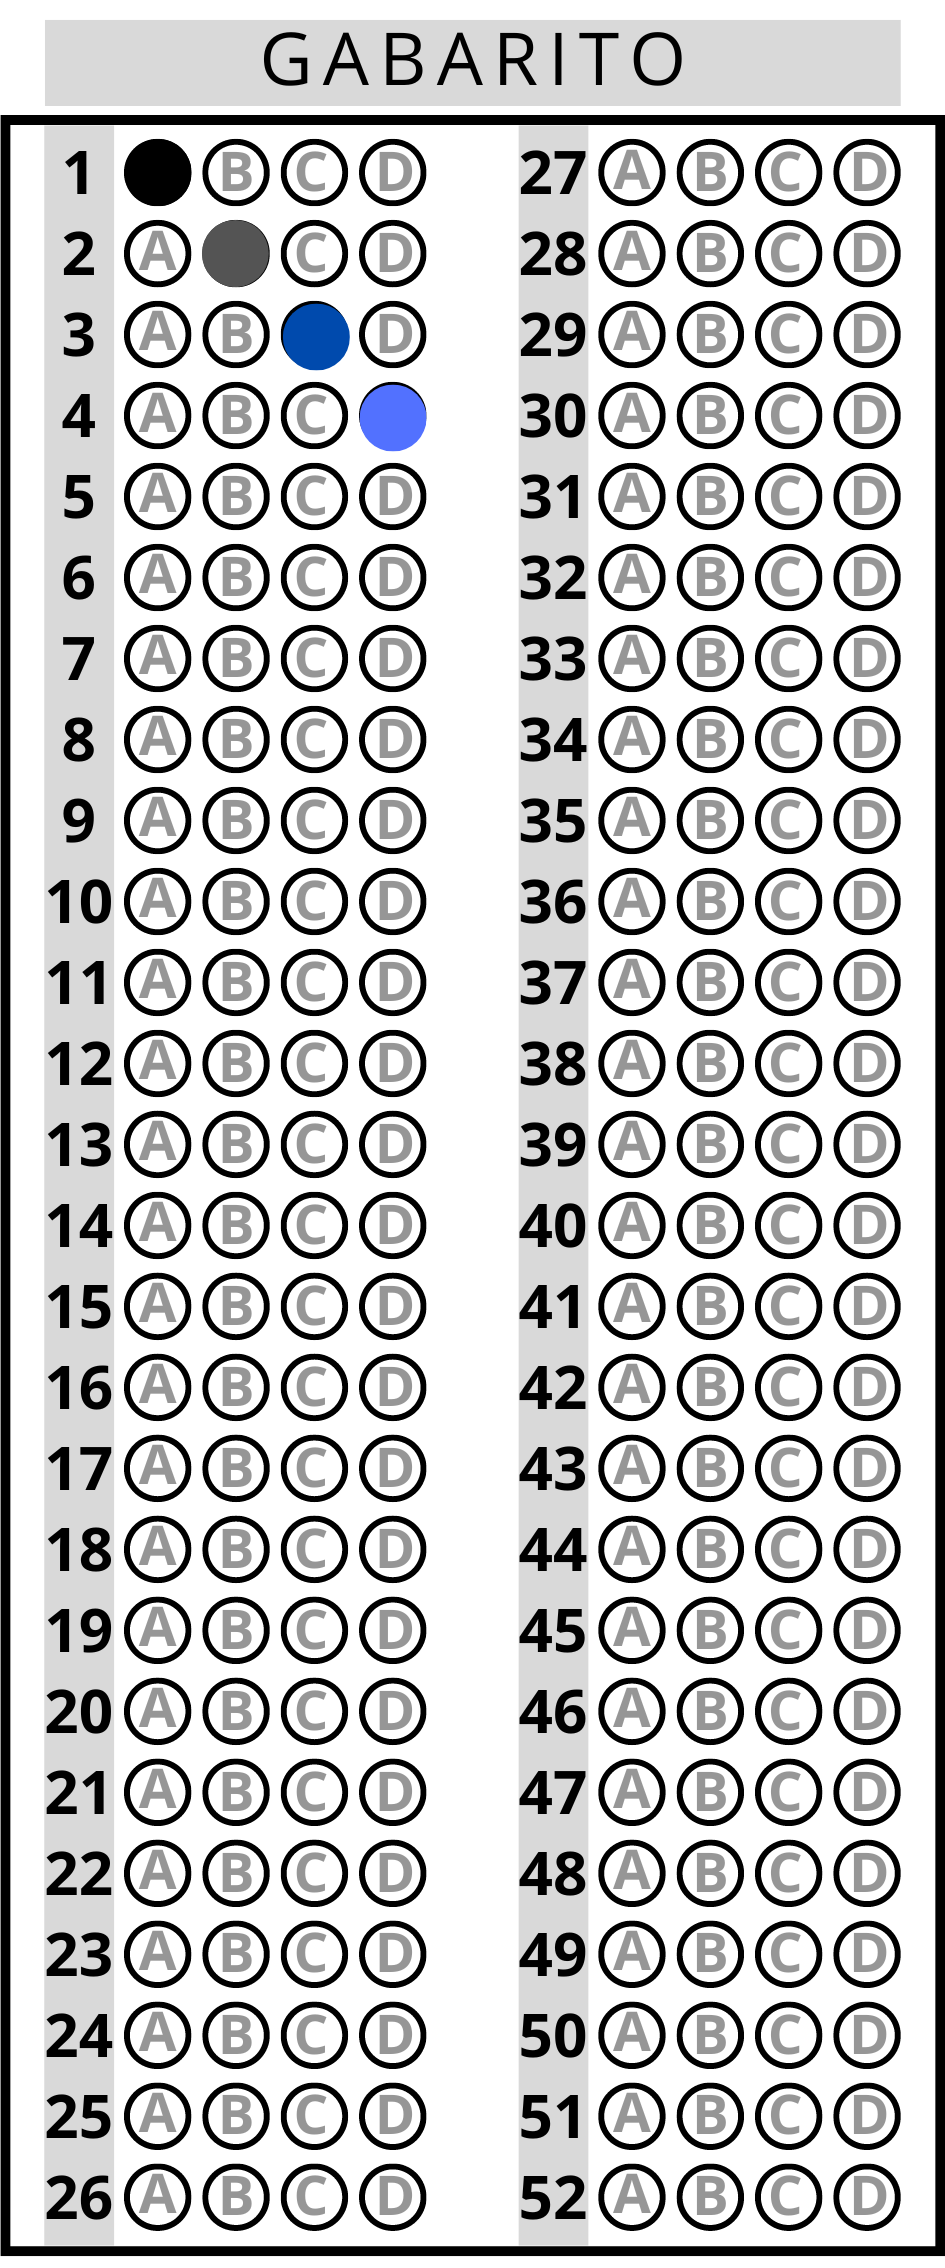
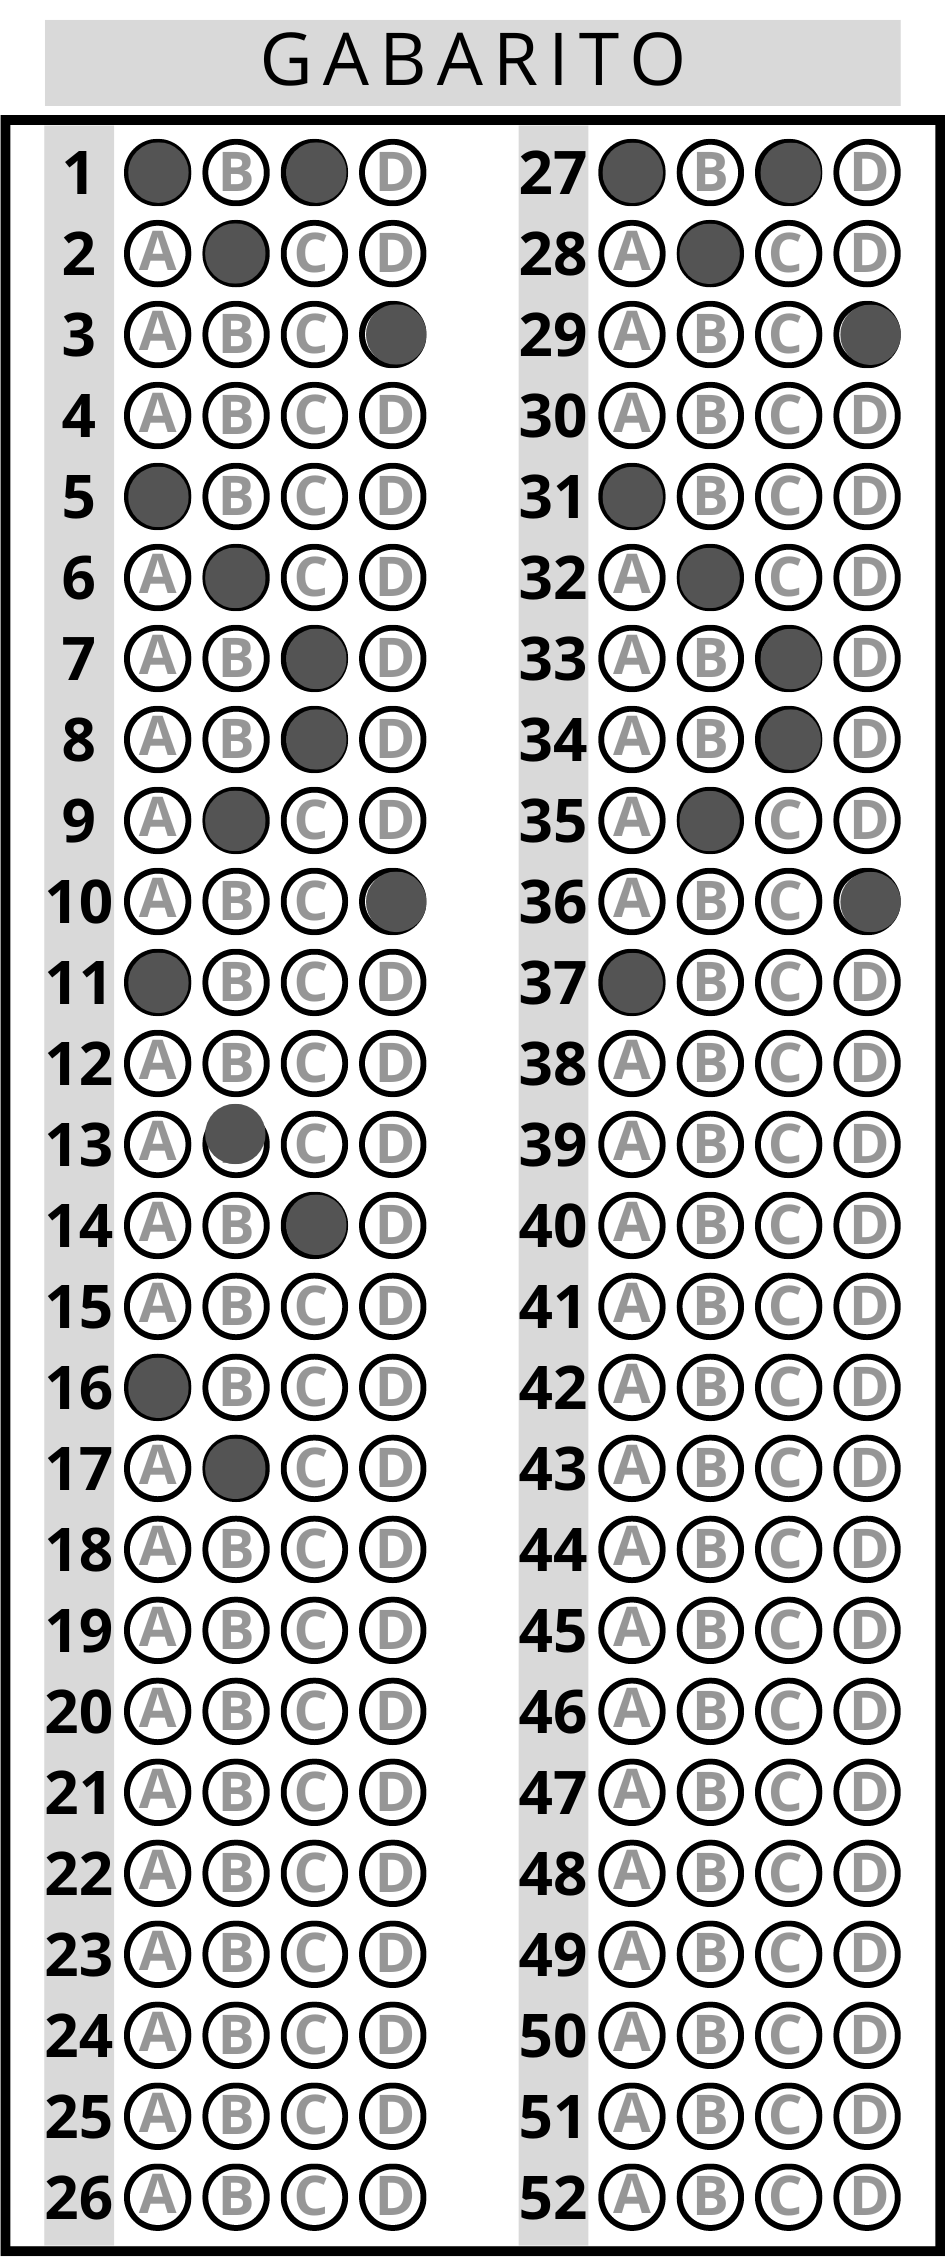
Ainda no mesmo ponto

diff --git a/Leitor de Gabaritos 2.0/main.py b/Leitor de Gabaritos 2.0/main.py
@@ -15,22 +15,46 @@ GABARITO = {
     1: 'A', 2: 'B', 3: 'C', 4: 'D', 5: 'A', 6: 'B', 7: 'C', 8: 'D', 9: 'A', 10: 'B', 11: 'C', 12: 'D',
     13: 'A', 14: 'B', 15: 'C', 16: 'D', 17: 'A', 18: 'B', 19: 'C', 20: 'D', 21: 'A', 22: 'B', 23: 'C', 24: 'D',
     25: 'A', 26: 'B', 27: 'C', 28: 'D', 29: 'A', 30: 'B', 31: 'C', 32: 'D', 33: 'A', 34: 'B', 35: 'C', 36: 'D',
-    37: 'A', 38: 'B', 39: 'C', 40: 'D', 41: 'A', 43: 'B', 44: 'C', 45: 'D', 46: 'A', 47: 'B', 48: 'C', 49: 'D',
-    50: 'A', 51: 'B', 52: 'B'
+    37: 'A', 38: 'B', 39: 'C', 40: 'D', 41: 'A', 42: 'B', 43: 'C', 44: 'D', 45: 'A', 46: 'B', 47: 'C', 48: 'D',
+    49: 'A', 50: 'B', 51: 'C', 52: 'D'
 }
 
 
-def reordenar_gabarito(gabarito):
-    valores_impares = [gabarito[k] for k in sorted(gabarito) if k % 2 != 0]
-    valores_pares = [gabarito[k] for k in sorted(gabarito) if k % 2 == 0]
-    novo_gabarito = {k: valores_impares.pop(
-        0) if k % 2 != 0 else valores_pares.pop(0) for k in sorted(gabarito)}
+def reordenar_gabarito(gabarito, inverter=False):
+    # Ordenar as chaves do gabarito
+    chaves_ordenadas = sorted(gabarito.keys())
+
+    # Dividir o gabarito em duas metades, garantindo que a primeira metade inclua a questão central quando o número total é par
+    meio = (len(chaves_ordenadas) + 1) // 2
+    primeira_metade = chaves_ordenadas[:meio]
+    segunda_metade = chaves_ordenadas[meio:]
+
+    # Intercalar as duas metades
+    novo_gabarito = {}
+    for i in range(len(segunda_metade)):
+        if inverter:
+            novo_gabarito[primeira_metade[i]] = gabarito[2*i + 1]
+            novo_gabarito[segunda_metade[i]] = gabarito[2*i + 2]
+        else:
+            novo_gabarito[2*i + 1] = gabarito[primeira_metade[i]]
+            novo_gabarito[2*i + 2] = gabarito[segunda_metade[i]]
+
+    # Adicionar a última questão se a quantidade total de questões for ímpar
+    if len(primeira_metade) > len(segunda_metade):
+        if inverter:
+            novo_gabarito[primeira_metade[-1]
+                          ] = gabarito[len(novo_gabarito) + 1]
+        else:
+            novo_gabarito[len(novo_gabarito) +
+                          1] = gabarito[primeira_metade[-1]]
+
     return novo_gabarito
 
 
 def converter_gabarito(gabarito):
     mapeamento = {'A': 0, 'B': 1, 'C': 2, 'D': 3}
-    return {k: mapeamento[v] for k, v in gabarito.items()}
+    novo_gabarito = {k-1: mapeamento[v] for k, v in gabarito.items()}
+    return novo_gabarito
 
 
 def extrair_maior_contorno(frame):
@@ -86,33 +110,41 @@ def validar_questao(c):
     return w >= 13 and h >= 13 and 0.1 <= ar <= 3.3
 
 
-def processar_frame(frame):
+def processar_frame(frame, gabarito_numerico):
     zoom_gabarito, bbox = extrair_maior_contorno(frame)
     if zoom_gabarito is not None:
         contorno, bbox2 = perspectiva_cb(zoom_gabarito)
         if contorno is not None:
-            return analisar_contorno(frame, contorno, bbox, bbox2)
+            return analisar_contorno(frame, contorno, bbox, bbox2, gabarito_numerico)
     return frame, None, None, None
 
 
-def analisar_contorno(frame, contorno, bbox, bbox2):
+def analisar_contorno(frame, contorno, bbox, bbox2, gabarito_numerico):
     frame_copy = frame.copy()
     contorno_copy = contorno.copy()
     respostas_copy = contorno.copy()
 
     # Ajustar bbox2 com a posição do maior contorno (bbox)
     bbox2 += bbox[:2]
-    cv2.drawContours(frame_copy, [bbox2], -1, (255, 0, 0), 10)
+    cv2.drawContours(frame_copy, [bbox2], -1, (255, 50, 255), 2)
 
     img_cinza = cv2.cvtColor(contorno, cv2.COLOR_BGR2GRAY)
     img_th = cv2.adaptiveThreshold(
         img_cinza, 255, cv2.ADAPTIVE_THRESH_GAUSSIAN_C, cv2.THRESH_BINARY_INV, 25, 16)
     questao_cnts = encontrar_questoes(img_th)
     questao_cnts = sort_contours(questao_cnts, method="top-to-bottom")[0]
-    blocos = [questao_cnts[i*4:(i+1)*4] for i in range(len(questao_cnts) // 4)]
+
+    # Identificar blocos considerando a ordem correta (duas colunas)
+    num_blocos = len(questao_cnts) // 8
+    blocos = []
+    for i in range(num_blocos):
+        blocos.extend(questao_cnts[i*8:(i+1)*8][::-1])
+
+    blocos = [blocos[i*4:(i+1)*4] for i in range(len(blocos) // 4)]
     cores = [(255, 0, 0), (0, 255, 0), (0, 0, 255),
              (255, 255, 0), (255, 0, 255)]
     cor_index = 0
+    respostas_aluno = {}
     for bloco in blocos:
         cnts = sort_contours(bloco, method="left-to-right")[0]
         bubbled = []
@@ -123,11 +155,40 @@ def analisar_contorno(frame, contorno, bbox, bbox2):
             cv2.drawContours(
                 contorno_copy, [c], -1, cores[cor_index % len(cores)], 2)
         if bubbled:
+            bubbled.sort(reverse=True)
+            if len(bubbled) == 1:
+                respostas_aluno[len(respostas_aluno) + 1] = chr(
+                    bubbled[0][1] + 65)  # Converter índice para letra
+            else:
+                respostas_aluno[len(respostas_aluno) + 1] = '-'
             for b in bubbled:
                 cv2.drawContours(respostas_copy, [
-                                 cnts[b[1]]], -1, (0, 255, 255), 2)
+                                 cnts[b[1]]], -1, (0, 255, 255), 2)  # Amarelo
+        else:
+            respostas_aluno[len(respostas_aluno) + 1] = '-'
         cor_index += 1
-    return frame_copy, contorno_copy, respostas_copy, img_th
+
+    # Verificar respostas do aluno em comparação com o gabarito
+    for num_questao, resposta_aluno in respostas_aluno.items():
+        resposta_certa = chr(gabarito_numerico[num_questao - 1] + 65)
+        if resposta_aluno == '-':
+            # Vermelho para questões não respondidas
+            cv2.drawContours(respostas_copy, [
+                             blocos[num_questao-1][gabarito_numerico[num_questao-1]]], -1, (0, 0, 255), 2)
+        elif resposta_aluno == resposta_certa:
+            # Verde para respostas corretas
+            cv2.drawContours(respostas_copy, [
+                             blocos[num_questao-1][gabarito_numerico[num_questao-1]]], -1, (0, 255, 0), 2)
+        else:
+            # Vermelho para respostas incorretas
+            cv2.drawContours(respostas_copy, [
+                             blocos[num_questao-1][gabarito_numerico[num_questao-1]]], -1, (0, 0, 255), 2)
+
+    # Reordenar as respostas do aluno de volta à ordem original
+    respostas_aluno_reordenadas = reordenar_gabarito(
+        respostas_aluno, inverter=True)
+
+    return frame_copy, contorno_copy, respostas_copy, img_th, respostas_aluno_reordenadas
 
 
 def is_bubbled(c, img_th):
@@ -156,13 +217,17 @@ def main():
                 frame = cv2.rotate(frame, cv2.ROTATE_90_COUNTERCLOCKWISE)
             else:
                 frame = img
-            frame_copy, contorno_copy, respostas_copy, img_th_copy = processar_frame(
-                frame)
+            frame_copy, contorno_copy, respostas_copy, img_th_copy, respostas_aluno = processar_frame(
+                frame, gabarito_numerico)
             exibir_frames(frame_copy, contorno_copy,
                           respostas_copy, img_th_copy)
             if tecla == 27:
-                print(gabarito_reordenado)
-                print('Saindo...')
+                respostas_aluno = dict(sorted(respostas_aluno.items()))
+                print('\nRespostas do aluno:\n')
+                # for k, v in respostas_aluno.items():
+                #     print(f'{k}: {v}')
+                print(respostas_aluno)
+                print('\nSaindo...')
                 break
         if USAR_WEBCAM:
             captura.release()

diff --git a/Leitor de Gabaritos 2.0/main copy.py b/Leitor de Gabaritos 2.0/main copy.py
@@ -12,7 +12,7 @@ USAR_WEBCAM = False
 
 # Gabarito
 GABARITO = {
-    1: 'C', 2: 'D', 3: 'A', 4: 'D', 5: 'A', 6: 'B', 7: 'C', 8: 'D', 9: 'A', 10: 'B', 11: 'C', 12: 'D',
+    1: 'A', 2: 'B', 3: 'C', 4: 'D', 5: 'A', 6: 'B', 7: 'C', 8: 'D', 9: 'A', 10: 'B', 11: 'C', 12: 'D',
     13: 'A', 14: 'B', 15: 'C', 16: 'D', 17: 'A', 18: 'B', 19: 'C', 20: 'D', 21: 'A', 22: 'B', 23: 'C', 24: 'D',
     25: 'A', 26: 'B', 27: 'C', 28: 'D', 29: 'A', 30: 'B', 31: 'C', 32: 'D', 33: 'A', 34: 'B', 35: 'C', 36: 'D',
     37: 'A', 38: 'B', 39: 'C', 40: 'D', 41: 'A', 42: 'B', 43: 'C', 44: 'D', 45: 'A', 46: 'B', 47: 'C', 48: 'D',
